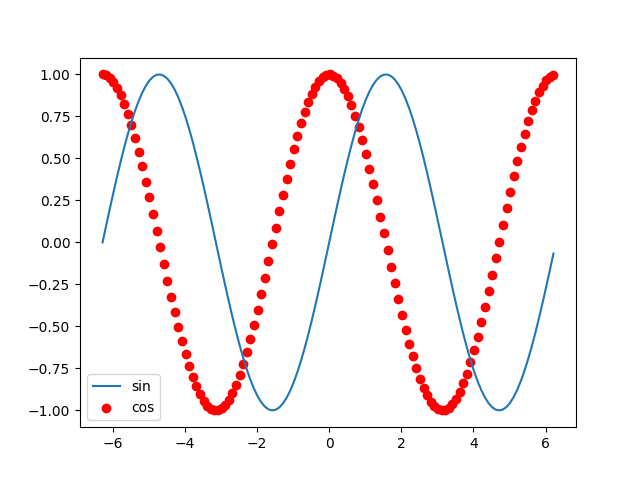
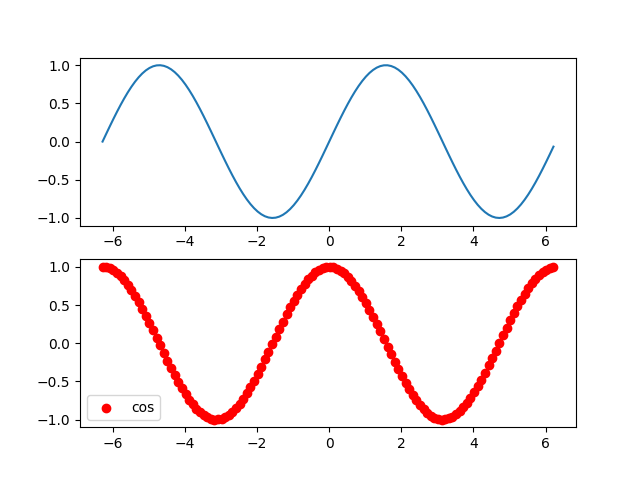
Sparks

diff --git a/demo_seaborn.py b/demo_seaborn.py
@@ -1,0 +1,27 @@
+import seaborn as sns
+import matplotlib.pyplot as plt
+
+sns.set_theme(style="ticks")
+
+# Initialize the figure with a logarithmic x axis
+f, ax = plt.subplots(figsize=(7, 6))
+ax.set_xscale("log")
+
+# Load the example planets dataset
+planets = sns.load_dataset("planets")
+
+# Plot the orbital period with horizontal boxes
+sns.boxplot(
+    planets, x="distance", y="method", hue="method",
+    whis=[0, 100], width=.6, palette="vlag"
+)
+
+# Add in points to show each observation
+sns.stripplot(planets, x="distance", y="method", size=4, color=".3")
+
+# Tweak the visual presentation
+ax.xaxis.grid(True)
+ax.set(ylabel="")
+sns.despine(trim=True, left=True)
+
+plt.show()

diff --git a/demo_matplotlib.py b/demo_matplotlib.py
@@ -5,7 +5,9 @@ x = np.arange(-2 * np.pi, 2 * np.pi, 0.1)
 y = np.sin(x)
 y2 = np.cos(x)
 
+plt.subplot(2,1,1)
 plt.plot(x, y, label="sin")
+plt.subplot(2,1,2)
 plt.scatter(x, y2, color="red", label="cos")
 plt.legend()
 # plt.plot(x, y, "bo-")
